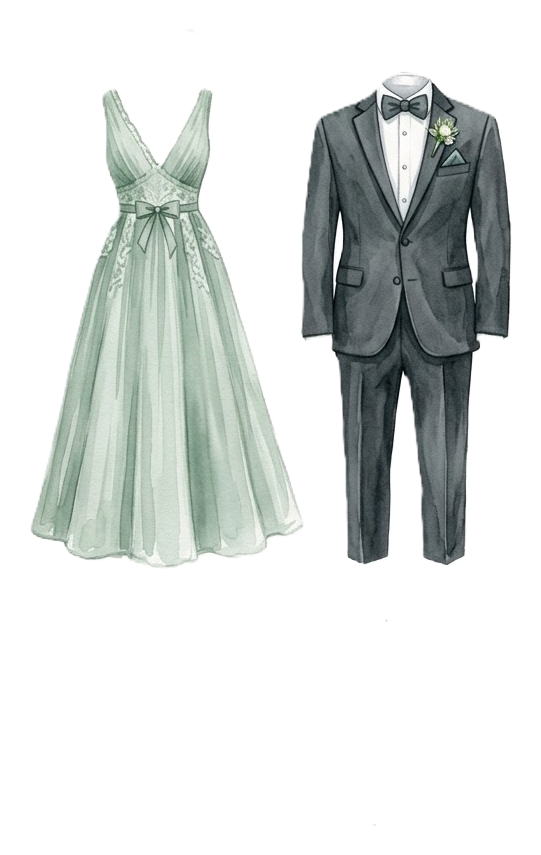
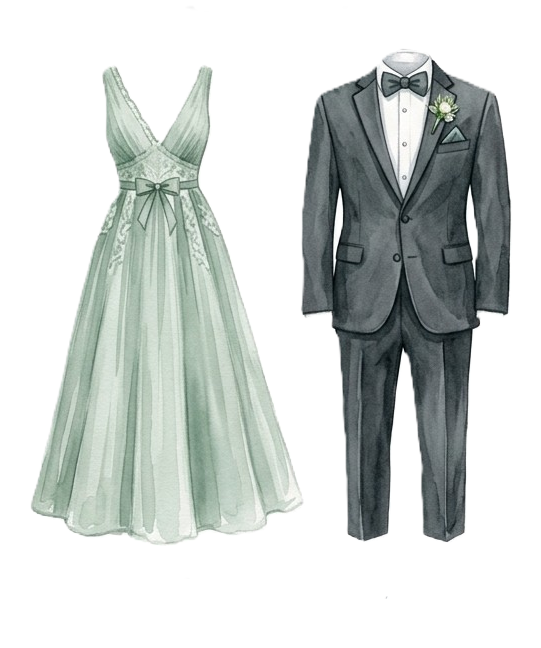
Reemplaza los sellos de texto por el monograma real en portada, cabecera y menú
Sustituye el sello dorado (CSS + texto) de la pantalla de apertura, el
kicker de la cabecera principal y el encabezado del menú lateral por el
monograma con corona floral que aporta la pareja.

Changed region(s): [[0.0591, 0.1235, 0.5619, 0.8642], [0.5323, 0.0617, 0.9464, 0.8333]]

diff --git a/index.html b/index.html
@@ -149,6 +149,10 @@
     cursor: pointer;
     margin-bottom: 2rem;
   }
+  .nav-monogram-img {
+    width: 84px; height: 84px;
+    display: block; margin: 0 auto 0.8rem;
+  }
   .nav-monogram {
     font-family: 'Cinzel', serif;
     color: var(--gold-light);
@@ -156,7 +160,7 @@
     letter-spacing: 0.06em;
     text-align: center;
     line-height: 1.4;
-    margin-bottom: 2.5rem;
+    margin-bottom: 2rem;
   }
   .nav-links { list-style: none; display: flex; flex-direction: column; gap: 1.2rem; }
   .nav-links a {
@@ -223,38 +227,13 @@
     margin-bottom: 1.4rem;
   }
   .wax-seal {
-    width: 92px; height: 92px;
-    position: relative;
-    background: radial-gradient(circle at 35% 28%, #f2ddb0 0%, #d4a96b 45%, #9e753b 100%);
-    border-radius: 50%;
-    display: flex; align-items: center; justify-content: center;
-    margin: 0 auto 1.5rem;
-    box-shadow:
-      0 12px 28px rgba(158, 117, 59, 0.4),
-      inset 0 2px 5px rgba(255,255,255,0.55),
-      inset 0 -4px 8px rgba(0,0,0,0.22);
-    border: 2px solid #e2c290;
+    width: 150px; height: 150px;
+    display: block;
+    margin: 0 auto 1.2rem;
+    filter: drop-shadow(0 10px 20px rgba(158, 117, 59, 0.35));
     animation: sealFloat 4s ease-in-out infinite;
-    overflow: hidden;
-  }
-  .wax-seal::before {
-    content: '';
-    position: absolute; inset: -8px;
-    border-radius: 50%;
-    border: 1px solid rgba(201,160,99,0.45);
-  }
-  .wax-seal::after {
-    content: '';
-    position: absolute; inset: 0;
-    border-radius: 50%;
-    background: linear-gradient(115deg, transparent 35%, rgba(255,255,255,0.65) 50%, transparent 65%);
-    background-size: 260% 260%;
-    background-position: -140% -140%;
-    animation: sealShine 5.5s ease-in-out infinite;
   }
   @keyframes sealFloat { 0%,100% { transform: translateY(0); } 50% { transform: translateY(-6px); } }
-  @keyframes sealShine { 0%, 55% { background-position: -140% -140%; } 75%, 100% { background-position: 140% 140%; } }
-  .wax-seal span { position: relative; z-index: 1; font-family: 'Cinzel', serif; font-size: 1.5rem; font-weight: 600; color: #1a382b; }
 
   .gate-names {
     font-family: 'Cinzel', serif;
@@ -422,6 +401,11 @@
     background:
       radial-gradient(circle at 50% 0%, rgba(201,160,99,0.12) 0%, transparent 60%),
       var(--card-bg);
+  }
+  .hero-monogram {
+    width: 108px; height: 108px;
+    display: block; margin: 0 auto 1rem;
+    filter: drop-shadow(0 6px 14px rgba(158, 117, 59, 0.3));
   }
   .hero-kicker {
     font-family: 'Montserrat', sans-serif;
@@ -760,7 +744,7 @@
   .js .reveal.visible { opacity: 1; transform: translateY(0); }
 
   @media (prefers-reduced-motion: reduce) {
-    .reveal, .wax-seal, .wax-seal::after, .btn-gold::after, .music-badge .note, .petal, .app { animation: none !important; transition: none !important; opacity: 1 !important; transform: none !important; }
+    .reveal, .wax-seal, .btn-gold::after, .music-badge .note, .petal, .app { animation: none !important; transition: none !important; opacity: 1 !important; transform: none !important; }
   }
 </style>
 </head>
@@ -794,9 +778,7 @@
       <circle cx="70" cy="12" r="2" fill="currentColor" fill-opacity=".4"/>
     </svg>
     <p class="gate-kicker">Bienvenidos a nuestra boda</p>
-    <div class="wax-seal">
-      <span>G&J</span>
-    </div>
+    <img class="wax-seal" src="img/monogram.png" alt="Monograma Gloria &amp; José">
     <p class="gate-names">Gloria & José</p>
     <p class="gate-sub">Nos casamos • 31 de Julio de 2027</p>
     <div class="divider-gold" style="margin-bottom:1.6rem"><span class="line"></span><span class="icon">♦</span><span class="line"></span></div>
@@ -820,6 +802,7 @@
 <div class="nav-overlay" id="nav-overlay">
   <nav class="nav-drawer">
     <button class="nav-close" onclick="toggleMenu()" aria-label="Cerrar">✕</button>
+    <img class="nav-monogram-img" src="img/monogram.png" alt="Monograma Gloria &amp; José">
     <p class="nav-monogram">Boda Gloria &amp; José</p>
     <ul class="nav-links">
       <li><a href="#inicio" onclick="toggleMenu()"><span class="dot"></span>Inicio</a></li>
@@ -876,6 +859,7 @@
         <circle cx="62" cy="4" r="3.2" fill="currentColor" fill-opacity=".65"/>
         <circle cx="54" cy="13" r="2.2" fill="currentColor" fill-opacity=".5"/>
       </svg>
+      <img class="hero-monogram" src="img/monogram.png" alt="Monograma Gloria &amp; José">
       <p class="hero-kicker">Nuestra Boda</p>
       <h1 class="hero-names">Gloria <span class="hero-amp">&amp;</span> José</h1>
       <p class="hero-date">31 • Julio • 2027 • Sevilla</p>
